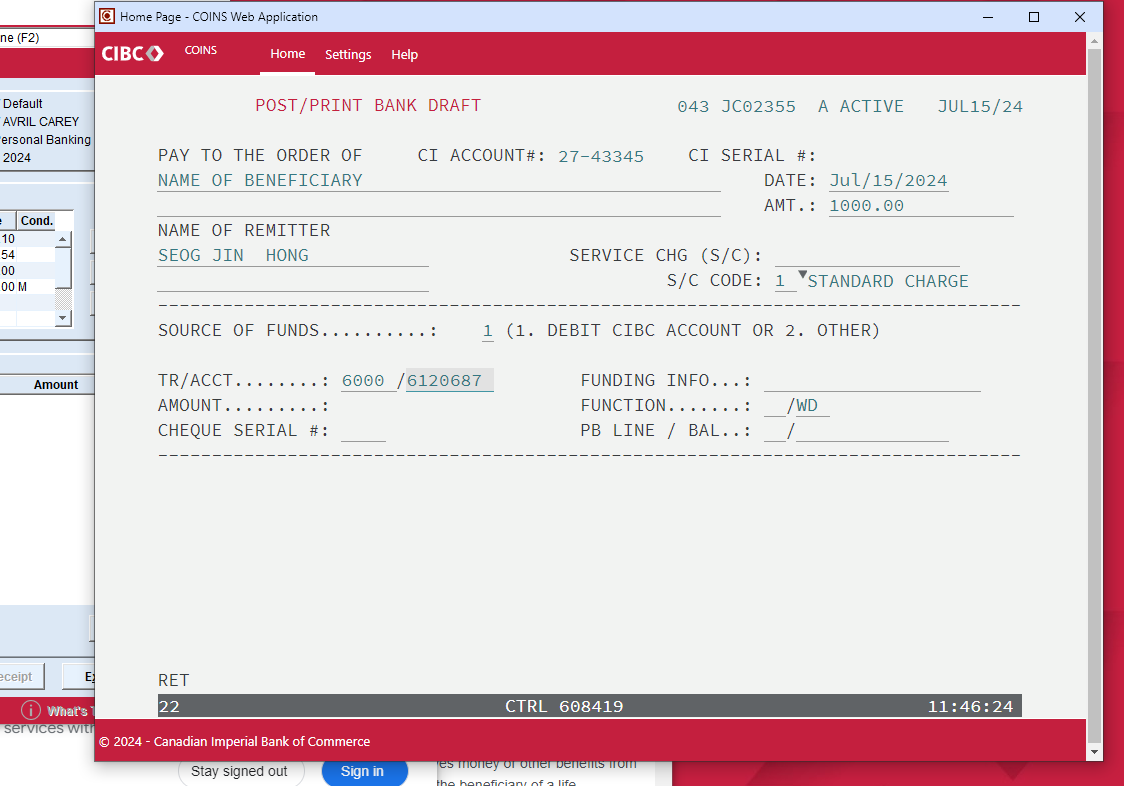
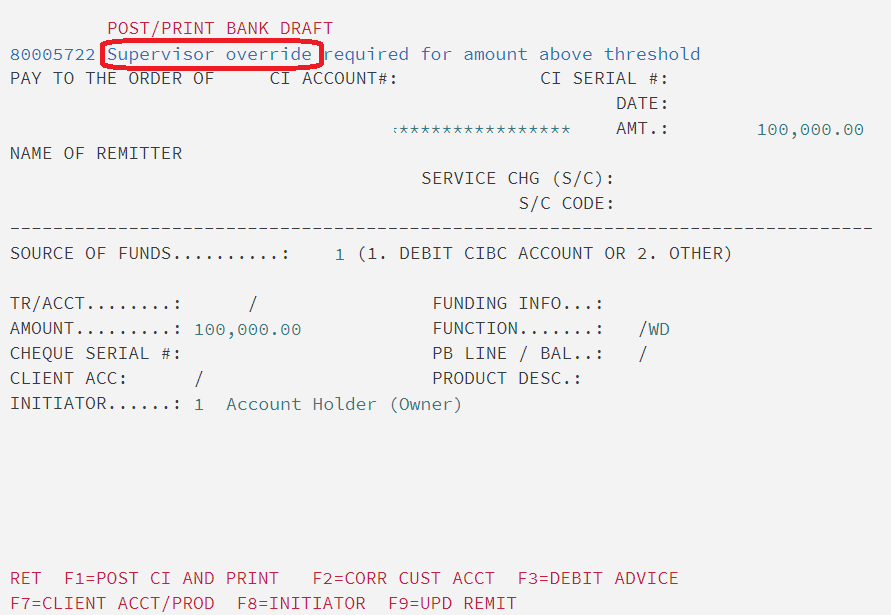
updated procedure0001

diff --git a/src/transaction_procedures/0001/Procedure0001.jsx b/src/transaction_procedures/0001/Procedure0001.jsx
@@ -1,22 +1,47 @@
 // create a basic component
 import React from 'react';
 
+import '../TransactionProcedures.css';
+import i1 from './0001-1.png'
+import i2 from './0001-2.png'
+import i3 from './0001-3.png'
 import i4 from './0001-4.png'
 import i5 from './0001-5.png'
 import i6 from './0001-6.png'
-import i7 from './0001-7.png'
-import i8 from './0001-8.png'
-import i9 from './0001-9.png'
-import i10 from './0001-10.png'
-import i11 from './0001-11.png'
+
 
 function Procedure0001() {
   return (
-    <div className='flex flex-col items-center'>
-      <p className='text-4xl font-bold'>Bank Draft in CAD</p>
-      <p className='text-2xl font-bold'>COINS 12 - 1 - 1</p>
-      <img src={i4} />
-      <img src={i8} />
+    <div className='procedure-container'>
+      <p className='procedure-title'>Bank Draft in CAD</p>
+      <p className='procedure-big-text'>COINS 12 - 1 - 1</p>
+      <img className='procedure-image' src={i1} />
+      <p className='procedure-small-text'>PAY TO THE ORDER OF: Name of Beneficiary</p>
+      <p className='procedure-small-text'>AMT. : Type in amount in CAD</p>
+      <p className='procedure-small-text'>NAME OF REMITTER: Copy & Paste client's name from CBFE</p>
+      <p className='procedure-small-text'>SOURCE OF FUNDS: 1</p>
+      <p className='procedure-small-text'>TR/ACCT: Type in client's CAD account info</p>
+      <p className='procedure-small-text'>Press ENTER</p>
+      <div className='gap'></div>
+
+      <img className='procedure-image' src={i2} />
+      <p className='procedure-small-text'>Press ENTER</p>
+      <div className='gap'></div>
+
+      <img className='procedure-image' src={i3} />
+      <p className='procedure-small-text'>Press F1</p>
+      <div className='gap'></div>
+
+      <img className='procedure-image' src={i4} />
+      <p className='procedure-small-text'>Get Override</p>
+      <div className='gap'></div>
+
+      <img className='procedure-image' src={i5} />
+      <p className='procedure-small-text'>Choose the printer for Drafts</p>
+      <div className='gap'></div>
+
+      <img className='procedure-image' src={i6} />
+      <p className='procedure-small-text'>Put the Draft slip and CAD slips together into an envelope</p>
     </div>
   );
 }
